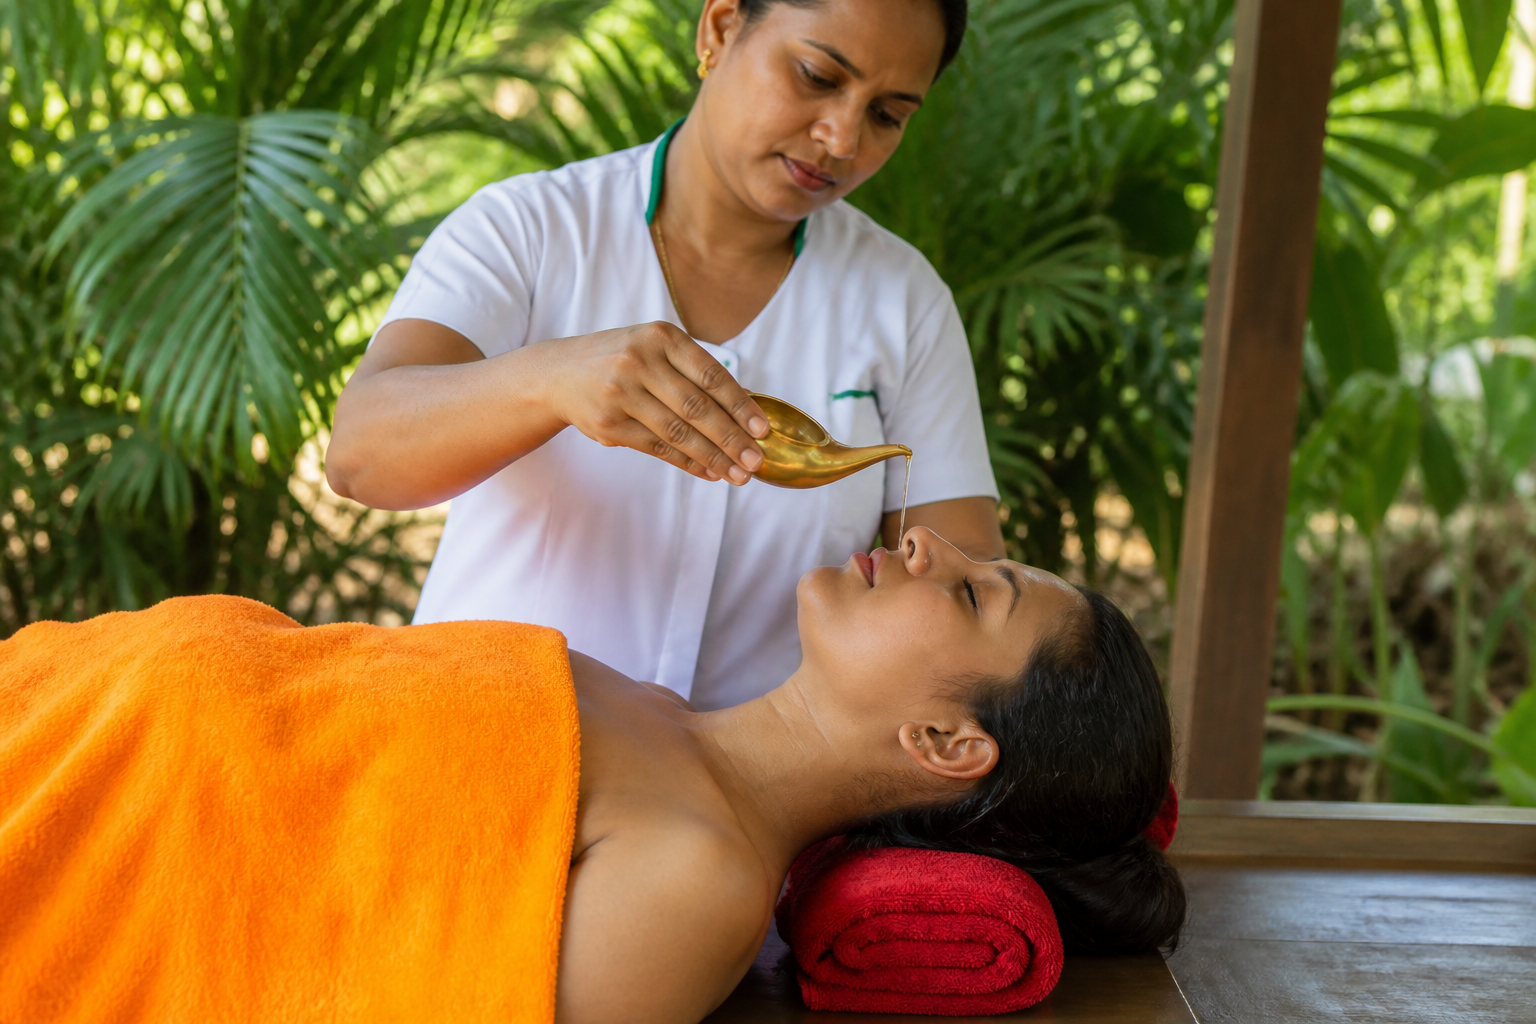
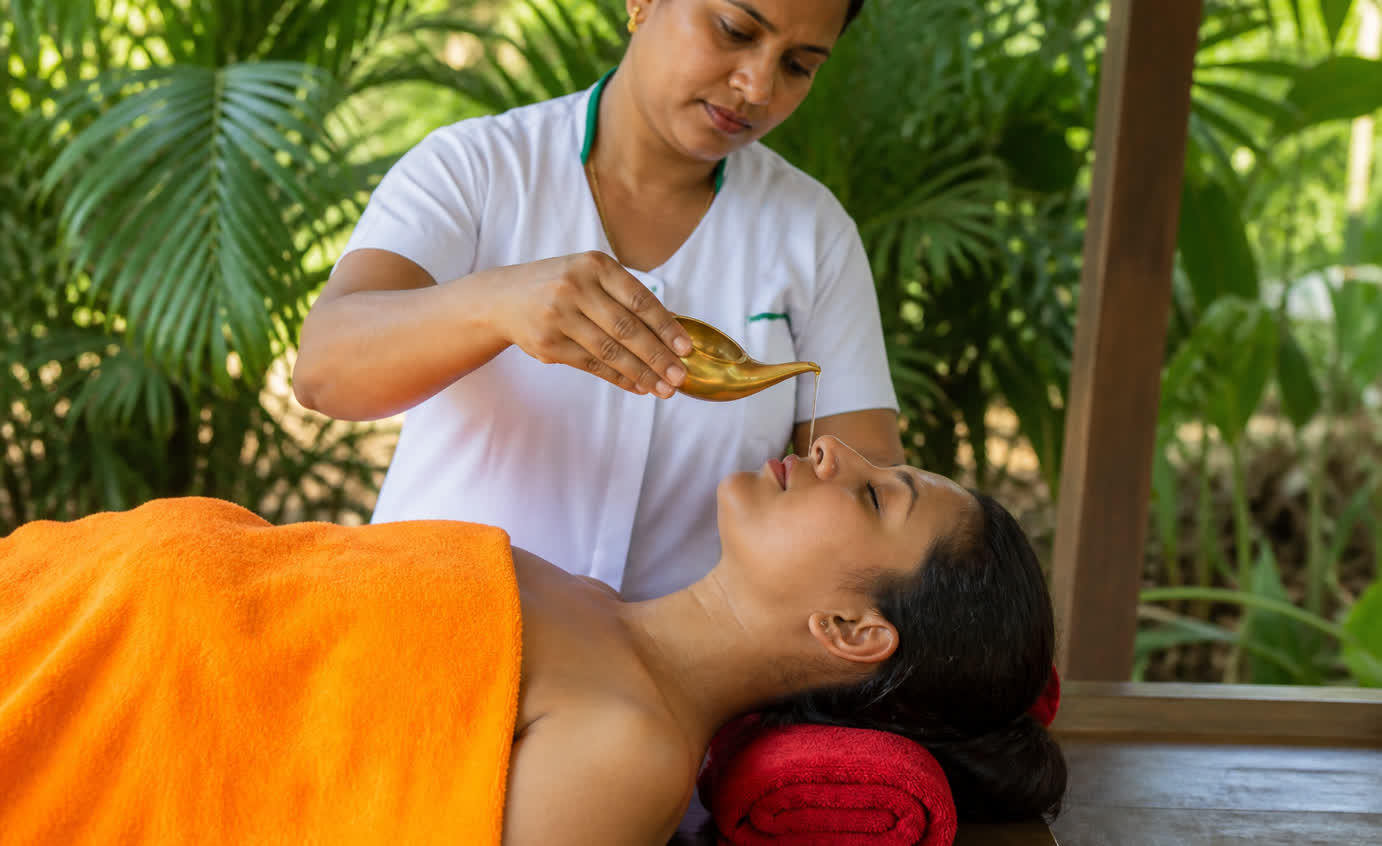
Uniform camp images, remove descriptions, bold flyer schedule
- Crop Nasyam image to same 1382x846 ratio as other camps
- Fixed image frames for equal display size in popup and cards
- Hide short description text on popup and learn-more cards
- Yellow schedule block with large bold flyer-style date, day, time

diff --git a/assets/css/style.css b/assets/css/style.css
@@ -4091,11 +4091,17 @@ background-color: var(--bs-primary-bg-subtle);
   object-fit: cover;
   object-position: center;
   display: block;
-}
-.camp_popup_image {
   width: 100%;
-  height: 120px;
+  height: 100%;
+}
+.camp_image_frame {
+  width: 100%;
+  overflow: hidden;
+  background: #ebebeb;
   flex-shrink: 0;
+}
+.camp_popup_column .camp_image_frame {
+  height: 100px;
 }
 .camp_popup_column_body {
   padding: 12px 14px 14px;
@@ -4122,35 +4128,47 @@ background-color: var(--bs-primary-bg-subtle);
 }
 .camp_schedule_highlight--yellow {
   background: linear-gradient(160deg, #ffe566 0%, #f5c518 45%, #e8b012 100%);
-  color: #411312;
+  color: #2a1810;
   border: 1px solid #d4a806;
   box-shadow: inset 0 1px 0 rgba(255, 255, 255, 0.45);
 }
 .camp_schedule_highlight--yellow .camp_highlight_day,
 .camp_schedule_highlight--yellow .camp_highlight_date,
 .camp_schedule_highlight--yellow .camp_highlight_time {
-  color: #411312;
+  color: #2a1810;
   opacity: 1;
 }
+.camp_schedule_flyer.camp_schedule_highlight--yellow {
+  padding: 18px 20px;
+}
+.camp_schedule_flyer .camp_highlight_date {
+  display: block;
+  font-size: 30px;
+  font-weight: 900;
+  line-height: 1.1;
+  margin: 0;
+  letter-spacing: 0.02em;
+}
+.camp_schedule_flyer .camp_highlight_day {
+  display: block;
+  font-size: 28px;
+  font-weight: 900;
+  line-height: 1.15;
+  margin: 10px 0 0;
+}
+.camp_schedule_flyer .camp_highlight_time {
+  display: block;
+  font-size: 26px;
+  font-weight: 900;
+  line-height: 1.15;
+  margin: 10px 0 0;
+}
 .camp_popup_shared_schedule {
-  padding: 0 16px 4px;
+  padding: 0 16px 6px;
   flex-shrink: 0;
 }
 .camp_popup_shared_schedule .camp_schedule_highlight {
   border-radius: 12px;
-  padding: 14px 16px;
-}
-.camp_popup_shared_schedule .camp_highlight_date {
-  font-size: 22px;
-  font-weight: 800;
-}
-.camp_popup_shared_schedule .camp_highlight_day {
-  font-size: 20px;
-  font-weight: 800;
-}
-.camp_popup_shared_schedule .camp_highlight_time {
-  font-size: 18px;
-  font-weight: 700;
 }
 .camp_title_tamil {
   display: block;
@@ -4265,14 +4283,17 @@ background-color: var(--bs-primary-bg-subtle);
   .camp_popup_column:last-child {
     border-bottom: none;
   }
-  .camp_popup_image {
-    height: 100px;
+  .camp_popup_column .camp_image_frame {
+    height: 85px;
   }
-  .camp_highlight_day {
-    font-size: 18px;
+  .camp_schedule_flyer .camp_highlight_date {
+    font-size: 24px;
   }
-  .camp_highlight_date {
-    font-size: 15px;
+  .camp_schedule_flyer .camp_highlight_day {
+    font-size: 22px;
+  }
+  .camp_schedule_flyer .camp_highlight_time {
+    font-size: 20px;
   }
   .camp_popup_buttons .btn {
     flex: 1;
@@ -4299,23 +4320,25 @@ background-color: var(--bs-primary-bg-subtle);
   overflow: hidden;
   margin-bottom: 16px;
   box-shadow: var(--bs-box-shadow);
-  min-height: 240px;
-  max-height: 280px;
+  min-height: auto;
+  max-height: none;
 }
 .camp_detail_card_media {
   flex: 0 0 200px;
   max-width: 200px;
   width: 200px;
-  height: 260px;
-  min-height: 260px;
-  max-height: 260px;
+  height: auto;
+  min-height: 0;
+  max-height: none;
+}
+.camp_detail_card_media .camp_image_frame {
+  width: 200px;
+  height: 122px;
 }
 .camp_detail_card_media img,
 .camp_detail_card_media .camp_uniform_image {
   width: 100%;
-  height: 260px;
-  min-height: 260px;
-  max-height: 260px;
+  height: 100%;
   object-fit: cover;
   object-position: center;
   display: block;
@@ -4343,9 +4366,18 @@ background-color: var(--bs-primary-bg-subtle);
 .camp_detail_card_body .camp_schedule_highlight {
   border-radius: 10px;
   margin-bottom: 10px;
-  padding: 12px 14px;
+  padding: 0;
   display: block;
   text-align: center;
+}
+.camp_detail_card_body .camp_schedule_flyer .camp_highlight_date {
+  font-size: 26px;
+}
+.camp_detail_card_body .camp_schedule_flyer .camp_highlight_day {
+  font-size: 24px;
+}
+.camp_detail_card_body .camp_schedule_flyer .camp_highlight_time {
+  font-size: 22px;
 }
 .camp_detail_card_body .camp_schedule_highlight--yellow .camp_highlight_date {
   font-size: 22px;
@@ -4360,8 +4392,8 @@ background-color: var(--bs-primary-bg-subtle);
   margin-top: 6px;
 }
 .camp_detail_card_body .camp_schedule_highlight--yellow .camp_highlight_time {
-  font-size: 17px;
-  font-weight: 700;
+  font-size: 18px;
+  font-weight: 800;
   display: block;
   margin-top: 6px;
 }
@@ -4460,15 +4492,10 @@ background-color: var(--bs-primary-bg-subtle);
     flex: 0 0 130px;
     max-width: 130px;
     width: 130px;
-    min-height: 180px;
-    height: 180px;
-    max-height: 180px;
   }
-  .camp_detail_card_media img,
-  .camp_detail_card_media .camp_uniform_image {
-    min-height: 180px;
-    height: 180px;
-    max-height: 180px;
+  .camp_detail_card_media .camp_image_frame {
+    width: 130px;
+    height: 80px;
   }
   .camp_detail_card_body {
     padding: 12px 12px;

diff --git a/assets/js/camps.js b/assets/js/camps.js
@@ -125,8 +125,29 @@
     if (extraClass) {
       classNames += " " + extraClass;
     }
+    if (extraClass && extraClass.indexOf("yellow") !== -1) {
+      classNames += " camp_schedule_flyer";
+    }
 
     return '<div class="' + classNames + '">' + parts.join("") + "</div>";
+  }
+
+  function renderCampImage(camp, altClass) {
+    var imgClass = "camp_uniform_image";
+    if (altClass) {
+      imgClass += " " + altClass;
+    }
+    return (
+      '<div class="camp_image_frame">' +
+      '<img class="' +
+      imgClass +
+      '" src="' +
+      escapeHtml(camp.image) +
+      '" alt="' +
+      escapeHtml(camp.title) +
+      '">' +
+      "</div>"
+    );
   }
 
   function renderPopupColumn(camp) {
@@ -134,12 +155,7 @@
     var html = '<div class="camp_popup_column">';
 
     if (display.image) {
-      html +=
-        '<img class="camp_popup_image camp_uniform_image" src="' +
-        escapeHtml(camp.image) +
-        '" alt="' +
-        escapeHtml(camp.title) +
-        '">';
+      html += renderCampImage(camp, "camp_popup_image");
     }
 
     html += '<div class="camp_popup_column_body">';
@@ -270,11 +286,7 @@
     if (display.image) {
       html +=
         '<div class="camp_detail_card_media">' +
-        '<img class="camp_uniform_image" src="' +
-        escapeHtml(camp.image) +
-        '" alt="' +
-        escapeHtml(camp.title) +
-        '">' +
+        renderCampImage(camp, "") +
         "</div>";
     }
 

diff --git a/assets/js/camp-data.js b/assets/js/camp-data.js
@@ -31,7 +31,7 @@ window.AathithyaCamps = {
     time: true,
     tag: true,
     title: true,
-    summary: true,
+    summary: false,
     benefits: false,
     scheduleDetails: false,
     bookNow: true,
@@ -41,7 +41,7 @@ window.AathithyaCamps = {
   popupDisplayDefaults: {
     image: true,
     title: true,
-    summary: true
+    summary: false
   },
 
   popupScheduleDisplay: {
